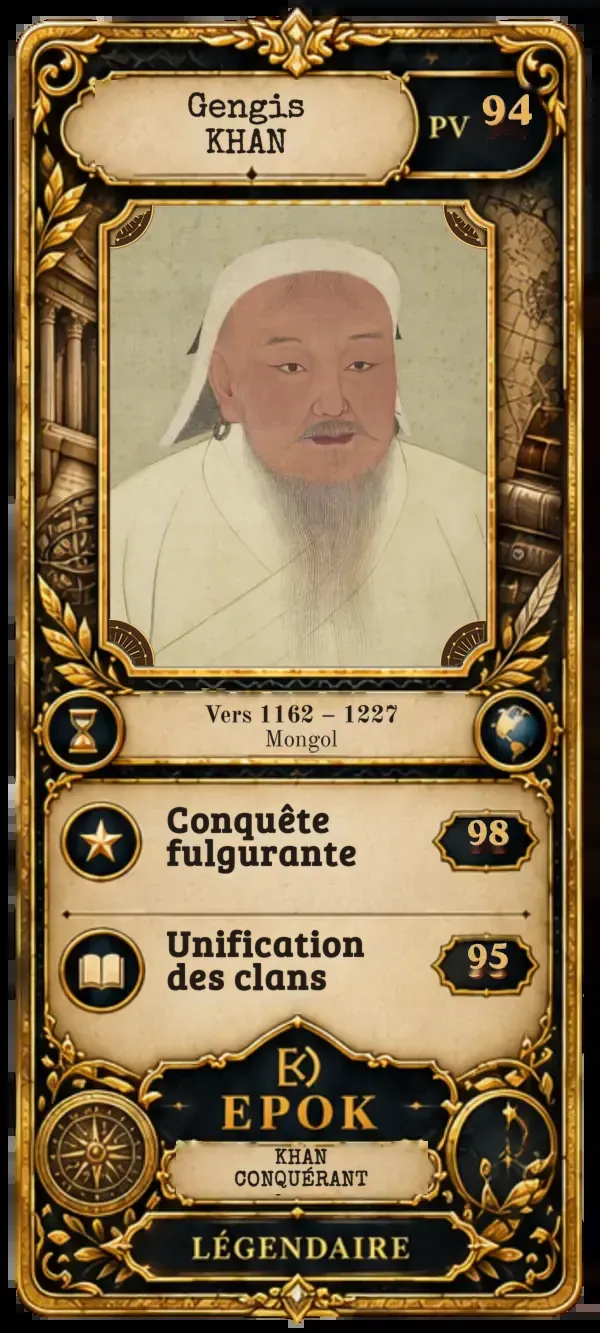
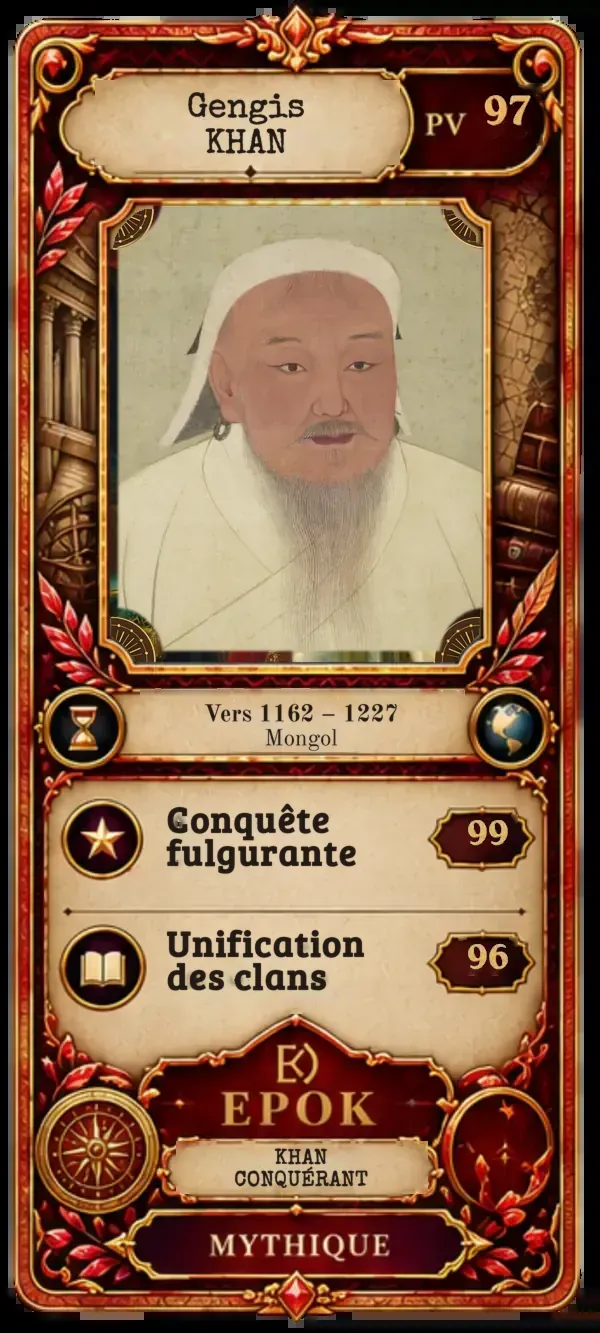
EPOK : Charlemagne et Gengis Khan deviennent mythiques
Claude-Session: https://claude.ai/code/session_01XqXJfzsdn5oWpG7BJX3SYQ

diff --git a/epok-cours/index.html b/epok-cours/index.html
@@ -2,7 +2,7 @@
 <html lang="fr">
 <head>
 <meta charset="utf-8">
-<meta http-equiv="Content-Security-Policy" content="default-src 'self'; script-src 'self' 'sha256-Dv4L71IXbeWAryr+RXFNr84gP0s89cChznbNr5zUO4s=' 'sha256-AAxSPqZm7z+j0rsCnD3WQyBPZdx0xoNIJtjjhFFzMC4=' https://apis.google.com https://www.gstatic.com; style-src 'self' 'unsafe-inline'; img-src 'self' data: blob: https://*.googleusercontent.com https://www.gstatic.com; font-src 'self' data:; media-src 'self' data: blob:; connect-src 'self' https://firestore.googleapis.com https://identitytoolkit.googleapis.com https://securetoken.googleapis.com https://www.googleapis.com https://apis.google.com https://accounts.google.com; frame-src https://epok-71194.firebaseapp.com https://apis.google.com https://accounts.google.com; worker-src 'self'; manifest-src 'self'; object-src 'none'; base-uri 'none'; form-action 'self'">
+<meta http-equiv="Content-Security-Policy" content="default-src 'self'; script-src 'self' 'sha256-Dv4L71IXbeWAryr+RXFNr84gP0s89cChznbNr5zUO4s=' 'sha256-uU8uyML7kmtjh0tRH9n7SL5lGNZCm/C5DqhLktsfWvw=' https://apis.google.com https://www.gstatic.com; style-src 'self' 'unsafe-inline'; img-src 'self' data: blob: https://*.googleusercontent.com https://www.gstatic.com; font-src 'self' data:; media-src 'self' data: blob:; connect-src 'self' https://firestore.googleapis.com https://identitytoolkit.googleapis.com https://securetoken.googleapis.com https://www.googleapis.com https://apis.google.com https://accounts.google.com; frame-src https://epok-71194.firebaseapp.com https://apis.google.com https://accounts.google.com; worker-src 'self'; manifest-src 'self'; object-src 'none'; base-uri 'none'; form-action 'self'">
 <meta name="referrer" content="strict-origin-when-cross-origin">
 <meta name="viewport" content="width=device-width, initial-scale=1, viewport-fit=cover">
 <meta name="color-scheme" content="light dark">
@@ -8690,7 +8690,7 @@ const CARTES = [
 {"n": 374, "r": "legendaire", "nom": "Saladin", "pv": 93},
 {"n": 375, "r": "legendaire", "nom": "Catherine II de Russie", "pv": 93},
 {"n": 376, "r": "legendaire", "nom": "Pierre le Grand", "pv": 93},
-{"n": 377, "r": "legendaire", "nom": "Charlemagne", "pv": 93},
+{"n": 377, "r": "mythique", "nom": "Charlemagne", "pv": 96},
 {"n": 378, "r": "legendaire", "nom": "Ramsès II", "pv": 93},
 {"n": 379, "r": "legendaire", "nom": "Cléopâtre VII", "pv": 93},
 {"n": 380, "r": "legendaire", "nom": "Mao Zedong", "pv": 93},
@@ -8700,7 +8700,7 @@ const CARTES = [
 {"n": 384, "r": "legendaire", "nom": "Confucius", "pv": 94},
 {"n": 385, "r": "legendaire", "nom": "Qin Shi Huang", "pv": 94},
 {"n": 386, "r": "rare", "nom": "Wu Zetian", "pv": 78},
-{"n": 387, "r": "legendaire", "nom": "Gengis Khan", "pv": 94},
+{"n": 387, "r": "mythique", "nom": "Gengis Khan", "pv": 97},
 {"n": 388, "r": "legendaire", "nom": "Jean Moulin", "pv": 94},
 {"n": 389, "r": "legendaire", "nom": "Galilée", "pv": 94},
 {"n": 390, "r": "legendaire", "nom": "Nelson Mandela", "pv": 94},

diff --git a/epok/index.html b/epok/index.html
@@ -2,7 +2,7 @@
 <html lang="fr">
 <head>
 <meta charset="utf-8">
-<meta http-equiv="Content-Security-Policy" content="default-src 'self'; script-src 'self' 'sha256-Dv4L71IXbeWAryr+RXFNr84gP0s89cChznbNr5zUO4s=' 'sha256-AAxSPqZm7z+j0rsCnD3WQyBPZdx0xoNIJtjjhFFzMC4=' https://apis.google.com https://www.gstatic.com; style-src 'self' 'unsafe-inline'; img-src 'self' data: blob: https://*.googleusercontent.com https://www.gstatic.com; font-src 'self' data:; media-src 'self' data: blob:; connect-src 'self' https://firestore.googleapis.com https://identitytoolkit.googleapis.com https://securetoken.googleapis.com https://www.googleapis.com https://apis.google.com https://accounts.google.com; frame-src https://epok-71194.firebaseapp.com https://apis.google.com https://accounts.google.com; worker-src 'self'; manifest-src 'self'; object-src 'none'; base-uri 'none'; form-action 'self'">
+<meta http-equiv="Content-Security-Policy" content="default-src 'self'; script-src 'self' 'sha256-Dv4L71IXbeWAryr+RXFNr84gP0s89cChznbNr5zUO4s=' 'sha256-uU8uyML7kmtjh0tRH9n7SL5lGNZCm/C5DqhLktsfWvw=' https://apis.google.com https://www.gstatic.com; style-src 'self' 'unsafe-inline'; img-src 'self' data: blob: https://*.googleusercontent.com https://www.gstatic.com; font-src 'self' data:; media-src 'self' data: blob:; connect-src 'self' https://firestore.googleapis.com https://identitytoolkit.googleapis.com https://securetoken.googleapis.com https://www.googleapis.com https://apis.google.com https://accounts.google.com; frame-src https://epok-71194.firebaseapp.com https://apis.google.com https://accounts.google.com; worker-src 'self'; manifest-src 'self'; object-src 'none'; base-uri 'none'; form-action 'self'">
 <meta name="referrer" content="strict-origin-when-cross-origin">
 <meta name="viewport" content="width=device-width, initial-scale=1, viewport-fit=cover">
 <meta name="color-scheme" content="light dark">
@@ -8690,7 +8690,7 @@ const CARTES = [
 {"n": 374, "r": "legendaire", "nom": "Saladin", "pv": 93},
 {"n": 375, "r": "legendaire", "nom": "Catherine II de Russie", "pv": 93},
 {"n": 376, "r": "legendaire", "nom": "Pierre le Grand", "pv": 93},
-{"n": 377, "r": "legendaire", "nom": "Charlemagne", "pv": 93},
+{"n": 377, "r": "mythique", "nom": "Charlemagne", "pv": 96},
 {"n": 378, "r": "legendaire", "nom": "Ramsès II", "pv": 93},
 {"n": 379, "r": "legendaire", "nom": "Cléopâtre VII", "pv": 93},
 {"n": 380, "r": "legendaire", "nom": "Mao Zedong", "pv": 93},
@@ -8700,7 +8700,7 @@ const CARTES = [
 {"n": 384, "r": "legendaire", "nom": "Confucius", "pv": 94},
 {"n": 385, "r": "legendaire", "nom": "Qin Shi Huang", "pv": 94},
 {"n": 386, "r": "rare", "nom": "Wu Zetian", "pv": 78},
-{"n": 387, "r": "legendaire", "nom": "Gengis Khan", "pv": 94},
+{"n": 387, "r": "mythique", "nom": "Gengis Khan", "pv": 97},
 {"n": 388, "r": "legendaire", "nom": "Jean Moulin", "pv": 94},
 {"n": 389, "r": "legendaire", "nom": "Galilée", "pv": 94},
 {"n": 390, "r": "legendaire", "nom": "Nelson Mandela", "pv": 94},

diff --git a/epok-cours/sw.js b/epok-cours/sw.js
@@ -6,7 +6,7 @@
    bibliotheques) est servi depuis le cache, puis mis en cache a la
    premiere lecture. VERSION change a chaque publication (publier_web.sh) :
    le nouveau service worker remplace alors l'ancien et vide son cache. */
-const VERSION = "202610310225-d3081df";
+const VERSION = "202610311706-732a2e7";
 /* Plusieurs applications sur le meme site (epok/, epok-cours/, epok-beta/) :
    les caches sont communs a tout le site, chacune a donc son prefixe, et
    ne vide que les siens. */

diff --git a/epok/sw.js b/epok/sw.js
@@ -6,7 +6,7 @@
    bibliotheques) est servi depuis le cache, puis mis en cache a la
    premiere lecture. VERSION change a chaque publication (publier_web.sh) :
    le nouveau service worker remplace alors l'ancien et vide son cache. */
-const VERSION = "202610311349-298a719";
+const VERSION = "202610311706-732a2e7";
 /* Plusieurs applications sur le meme site (epok/, epok-cours/, epok-beta/) :
    les caches sont communs a tout le site, chacune a donc son prefixe, et
    ne vide que les siens. */
